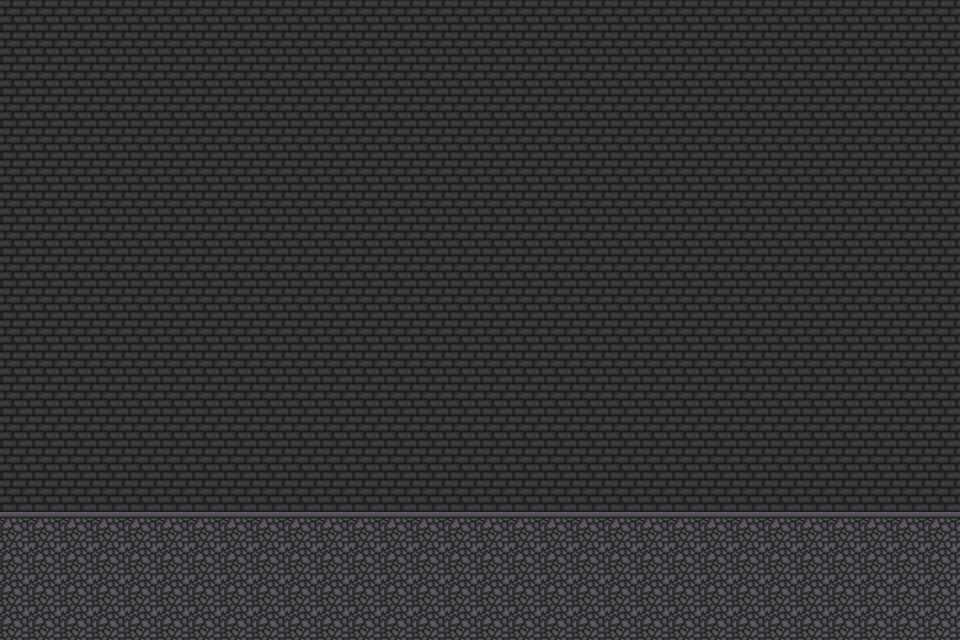
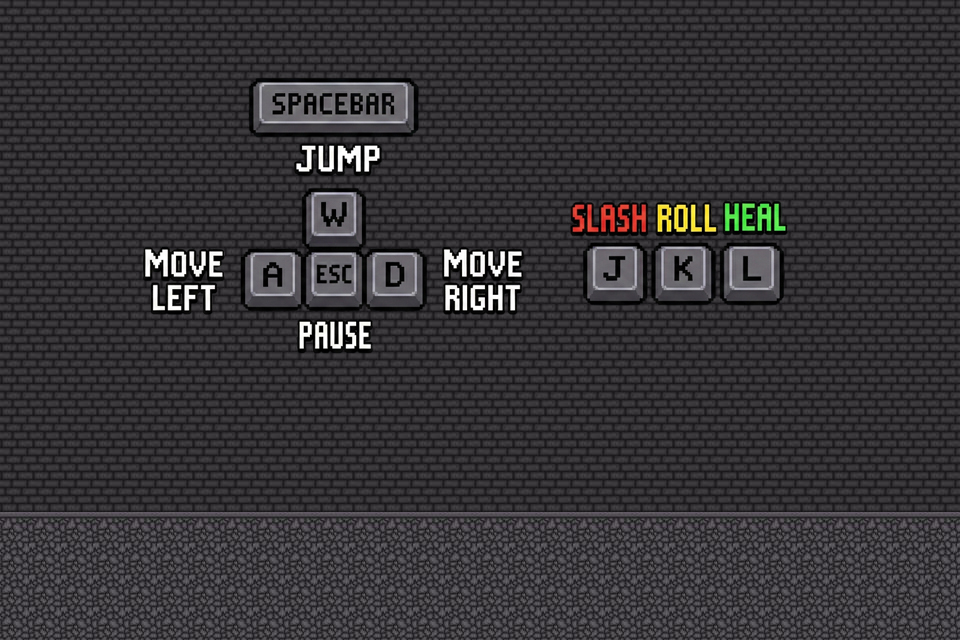
lock map 6 + add a bit change

Changed region(s): [[0.125, 0.125, 0.5625, 0.5625], [0.5938, 0.3125, 0.8438, 0.5]]

diff --git a/GameMap.java b/GameMap.java
@@ -104,14 +104,14 @@ public class GameMap {
             { 0, 0, 0, 0, 0, 0, 0, 0, 0, 0, 0, 0, 0, 0, 0, 0, 0, 0, 0, 0, 0, 0, 0, 0, 0, 0, 0, 0, 0, 0 },
             { 0, 0, 0, 0, 1, 1, 1, 1, 1, 1, 1, 1, 1, 1, 1, 1, 1, 1, 1, 1, 1, 1, 1, 1, 1, 1, 1, 1, 1, 1 },
             { 1, 1, 0, 0, 0, 0, 0, 0, 0, 0, 0, 0, 0, 0, 0, 0, 0, 0, 0, 0, 0, 0, 0, 0, 0, 0, 0, 0, 0, 1 },
-            { 1, 0, 1, 0, 0, 0, 0, 0, 0, 0, 0, 0, 0, 0, 0, 0, 0, 0, 0, 0, 0, 0, 0, 0, 0, 0, 0, 0, 0, 1 },
-            { 1, 0, 0, 1, 0, 0, 0, 0, 0, 0, 0, 0, 0, 0, 0, 0, 0, 0, 0, 0, 0, 0, 0, 0, 0, 0, 0, 0, 0, 1 },
-            { 1, 0, 0, 0, 1, 0, 0, 0, 0, 0, 0, 0, 0, 0, 0, 0, 0, 0, 0, 0, 0, 0, 0, 0, 0, 0, 0, 0, 0, 1 },
+            { 1, 1, 1, 0, 0, 0, 0, 0, 0, 0, 0, 0, 0, 0, 0, 0, 0, 0, 0, 0, 0, 0, 0, 0, 0, 0, 0, 0, 0, 1 },
+            { 1, 1, 1, 1, 0, 0, 0, 0, 0, 0, 0, 0, 0, 0, 0, 0, 0, 0, 0, 0, 0, 0, 0, 0, 0, 0, 0, 0, 0, 1 },
+            { 1, 1, 1, 1, 1, 0, 0, 0, 0, 0, 0, 0, 0, 0, 0, 0, 0, 0, 0, 0, 0, 0, 0, 0, 0, 0, 0, 0, 0, 1 },
             { 1, 1, 1, 1, 1, 1, 1, 1, 1, 1, 1, 1, 1, 1, 1, 1, 1, 1, 1, 1, 1, 1, 1, 0, 0, 0, 0, 0, 1, 1 },
             { 0, 0, 0, 0, 0, 0, 0, 0, 0, 0, 0, 0, 0, 0, 0, 0, 0, 0, 0, 0, 0, 0, 0, 0, 0, 1, 1, 1, 1, 1 },
-            { 0, 0, 0, 0, 0, 0, 0, 0, 0, 0, 0, 0, 0, 0, 0, 0, 0, 0, 0, 0, 0, 0, 0, 0, 1, 0, 0, 0, 0, 0 },
-            { 0, 0, 0, 0, 0, 0, 0, 0, 0, 0, 0, 0, 0, 0, 0, 0, 0, 0, 0, 0, 0, 0, 0, 1, 0, 0, 0, 0, 0, 0 },
-            { 0, 0, 0, 0, 3, 0, 0, 0, 3, 0, 0, 0, 3, 0, 0, 0, 3, 0, 0, 0, 0, 0, 1, 0, 0, 0, 0, 0, 0, 0 },
+            { 0, 0, 0, 0, 0, 0, 0, 0, 0, 0, 0, 0, 0, 0, 0, 0, 0, 0, 0, 0, 0, 0, 0, 0, 1, 1, 1, 1, 1, 1 },
+            { 0, 0, 0, 0, 0, 0, 0, 0, 0, 0, 0, 0, 0, 0, 0, 0, 0, 0, 0, 0, 0, 0, 0, 1, 1, 1, 1, 1, 1, 1 },
+            { 0, 0, 0, 0, 3, 0, 0, 0, 3, 0, 0, 0, 3, 0, 0, 0, 3, 0, 0, 0, 0, 0, 1, 1, 1, 1, 1, 1, 1, 1 },
             { 1, 1, 1, 1, 1, 1, 1, 1, 1, 1, 1, 1, 1, 1, 1, 1, 1, 1, 1, 1, 1, 1, 1, 1, 1, 1, 1, 1, 1, 1 },
             { 1, 1, 1, 1, 1, 1, 1, 1, 1, 1, 1, 1, 1, 1, 1, 1, 1, 1, 1, 1, 1, 1, 1, 1, 1, 1, 1, 1, 1, 1 },
             { 1, 1, 1, 1, 1, 1, 1, 1, 1, 1, 1, 1, 1, 1, 1, 1, 1, 1, 1, 1, 1, 1, 1, 1, 1, 1, 1, 1, 1, 1 },
@@ -169,7 +169,11 @@ public class GameMap {
         currentLevel++;
         if (currentLevel >= allmapData.length) {
             currentLevel = 0;
-        }
+        }  
+    }
+    
+    public boolean FinalLevel() {
+        return currentLevel >= allmapData.length - 1;
     }
 
     public boolean isSolid(int x, int y) {

diff --git a/GameFrame.java b/GameFrame.java
@@ -242,7 +242,7 @@ public class GameFrame extends JFrame {
                     }
                 }
 
-                if (mc.getX() > 910) {
+                if (mc.getX() > 910 && !gameMap.FinalLevel()) {
                     gameMap.nextLevel();
                     gameMap.clearMapVisuals(drawpane);
                     mc.setStartPosition();
